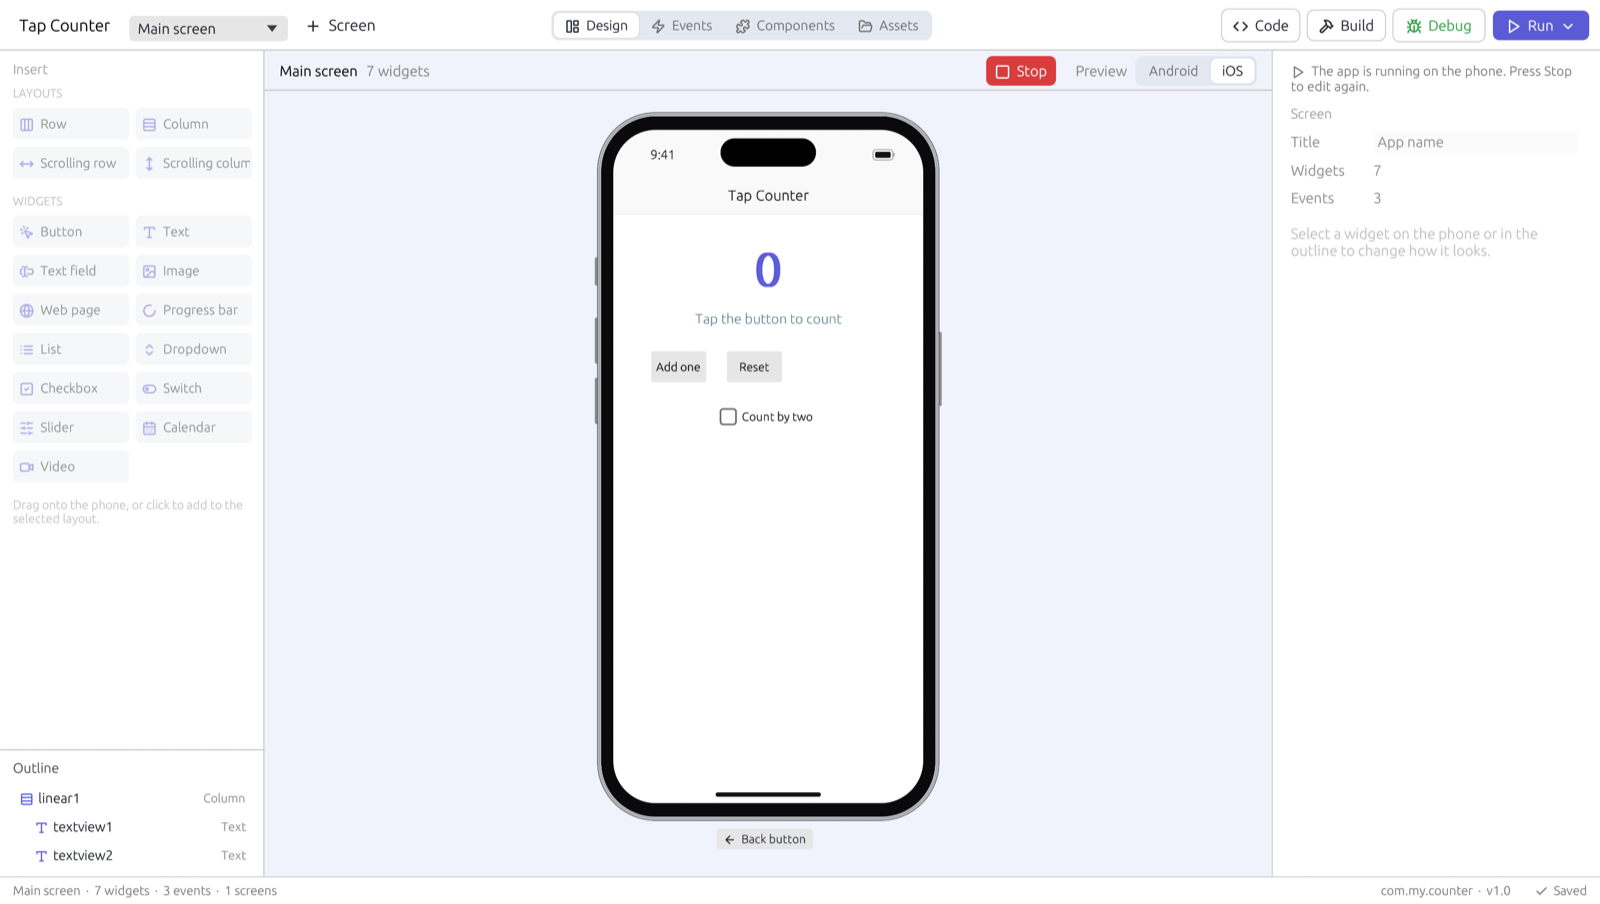
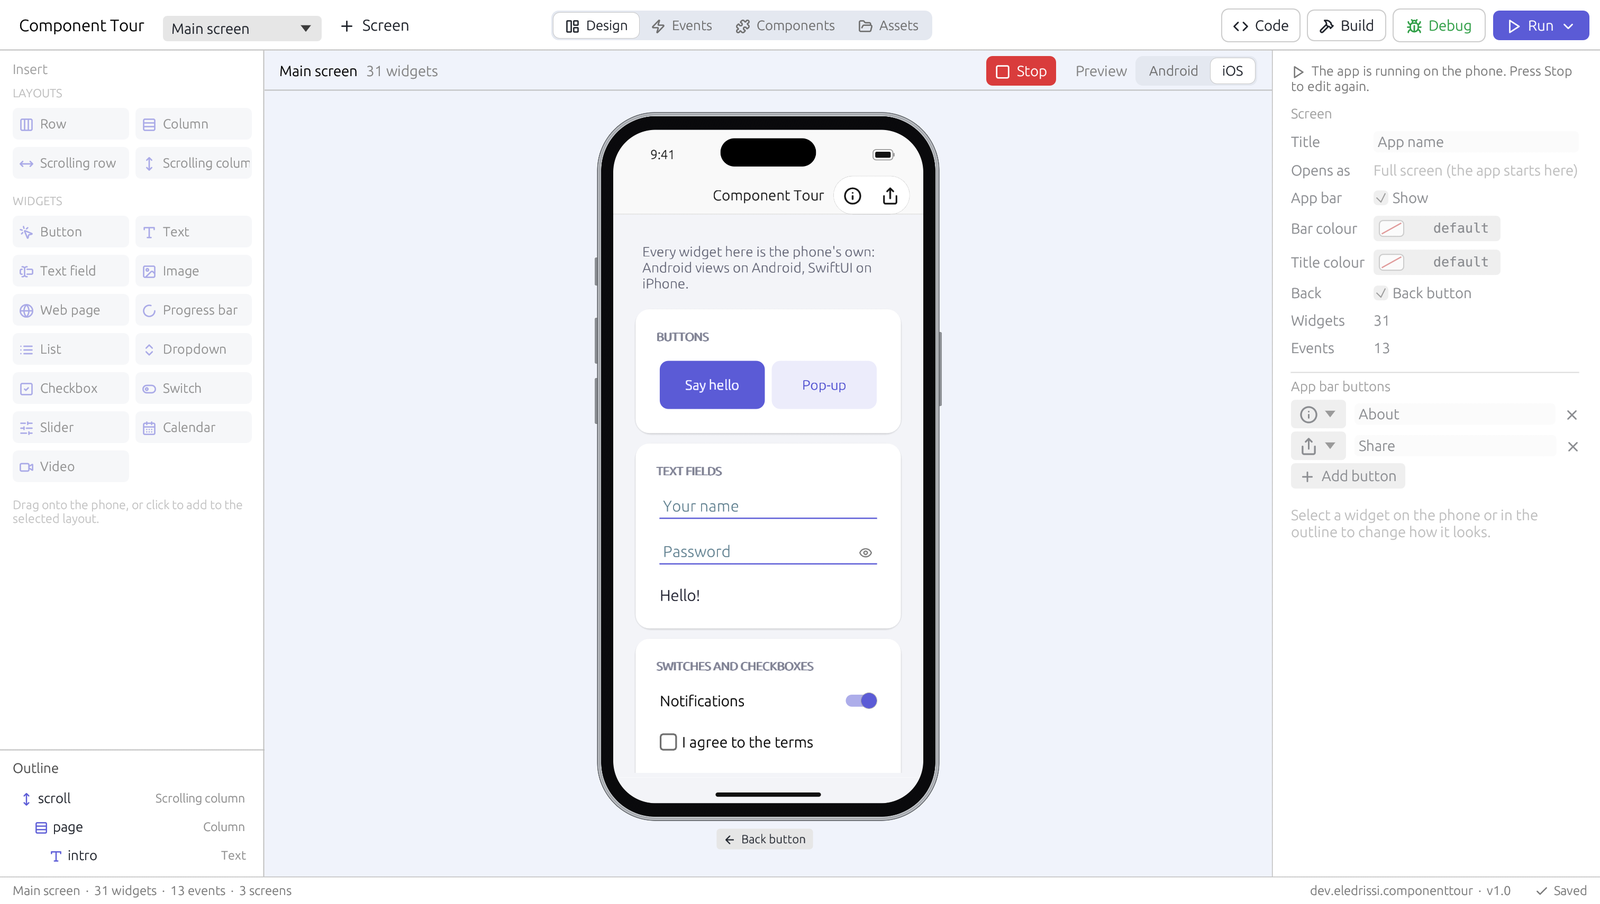
README: badges, and designer pictures of Component Tour
Badges under the logo: Rust, the three systems Blockwise runs on, the apps
it makes, MCP and the license. The designer and Play pictures show the
Component Tour example instead of the tap counter; the design-tour and
design-tour-play screenshot scenes make them again.

diff --git a/app/src/app.rs b/app/src/app.rs
@@ -524,6 +524,18 @@ impl App {
                 "design" => {
                     ed.design.selected = Some("button1".into());
                 }
+                // the Component Tour example (the README's designer pictures):
+                // a button selected, or the app playing
+                "design-tour" | "design-tour-play" => {
+                    let mut tour = crate::examples::EXAMPLES[0].project();
+                    tour.id = pid;
+                    app.store.projects[0] = tour;
+                    if o == "design-tour-play" {
+                        ed.run = Some(Runtime::new(app.store.projects[0].clone(), 0.0));
+                    } else {
+                        ed.design.selected = Some("toastButton".into());
+                    }
+                }
                 // the button row set to wrap content, inside the centered column
                 "design-wrap" => {
                     if let Some(w) = app.store.projects[0].screens[0].widgets.iter_mut().find(|w| w.id == "linear2") {

diff --git a/README.md b/README.md
@@ -5,9 +5,21 @@
   </picture>
 </h1>
 
+<p align="center">
+  <img src="https://img.shields.io/badge/Rust-100%25-B7410E?logo=rust&logoColor=white" alt="100% Rust">
+  <img src="https://img.shields.io/badge/macOS-000000?logo=apple&logoColor=white" alt="macOS">
[1 lines of base64/hex data omitted]
+  <img src="https://img.shields.io/badge/Linux-FCC624?logo=linux&logoColor=black" alt="Linux">
+  <br>
+  <img src="https://img.shields.io/badge/Android-Kotlin-3DDC84?logo=android&logoColor=white" alt="Makes Android apps in Kotlin">
+  <img src="https://img.shields.io/badge/iOS-SwiftUI-F05138?logo=swift&logoColor=white" alt="Makes iOS apps in SwiftUI">
+  <img src="https://img.shields.io/badge/MCP-ready-6E56CF?logo=modelcontextprotocol&logoColor=white" alt="MCP ready">
+  <a href="LICENSE"><img src="https://img.shields.io/badge/license-Apache%202.0-blue" alt="Apache 2.0 license"></a>
+</p>
+
 **Build real Android and iOS apps without writing code.** Design your screens by dragging widgets onto a phone, make them do things by snapping blocks together, and try the app at once, right in the editor. When it's ready, Blockwise gives you a real Kotlin project for Android Studio and a SwiftUI project for Xcode, or runs the app on the Android emulator and the iPhone simulator for you.
 
-![The designer: widgets on the left, the phone in the middle, the selected widget's settings on the right](docs/images/design.png)
+![The designer: widgets on the l![alt text](image.png)eft, the phone in the middle, the selected widget's settings on the right](docs/images/design.png)
 
 ## What you can do
 
